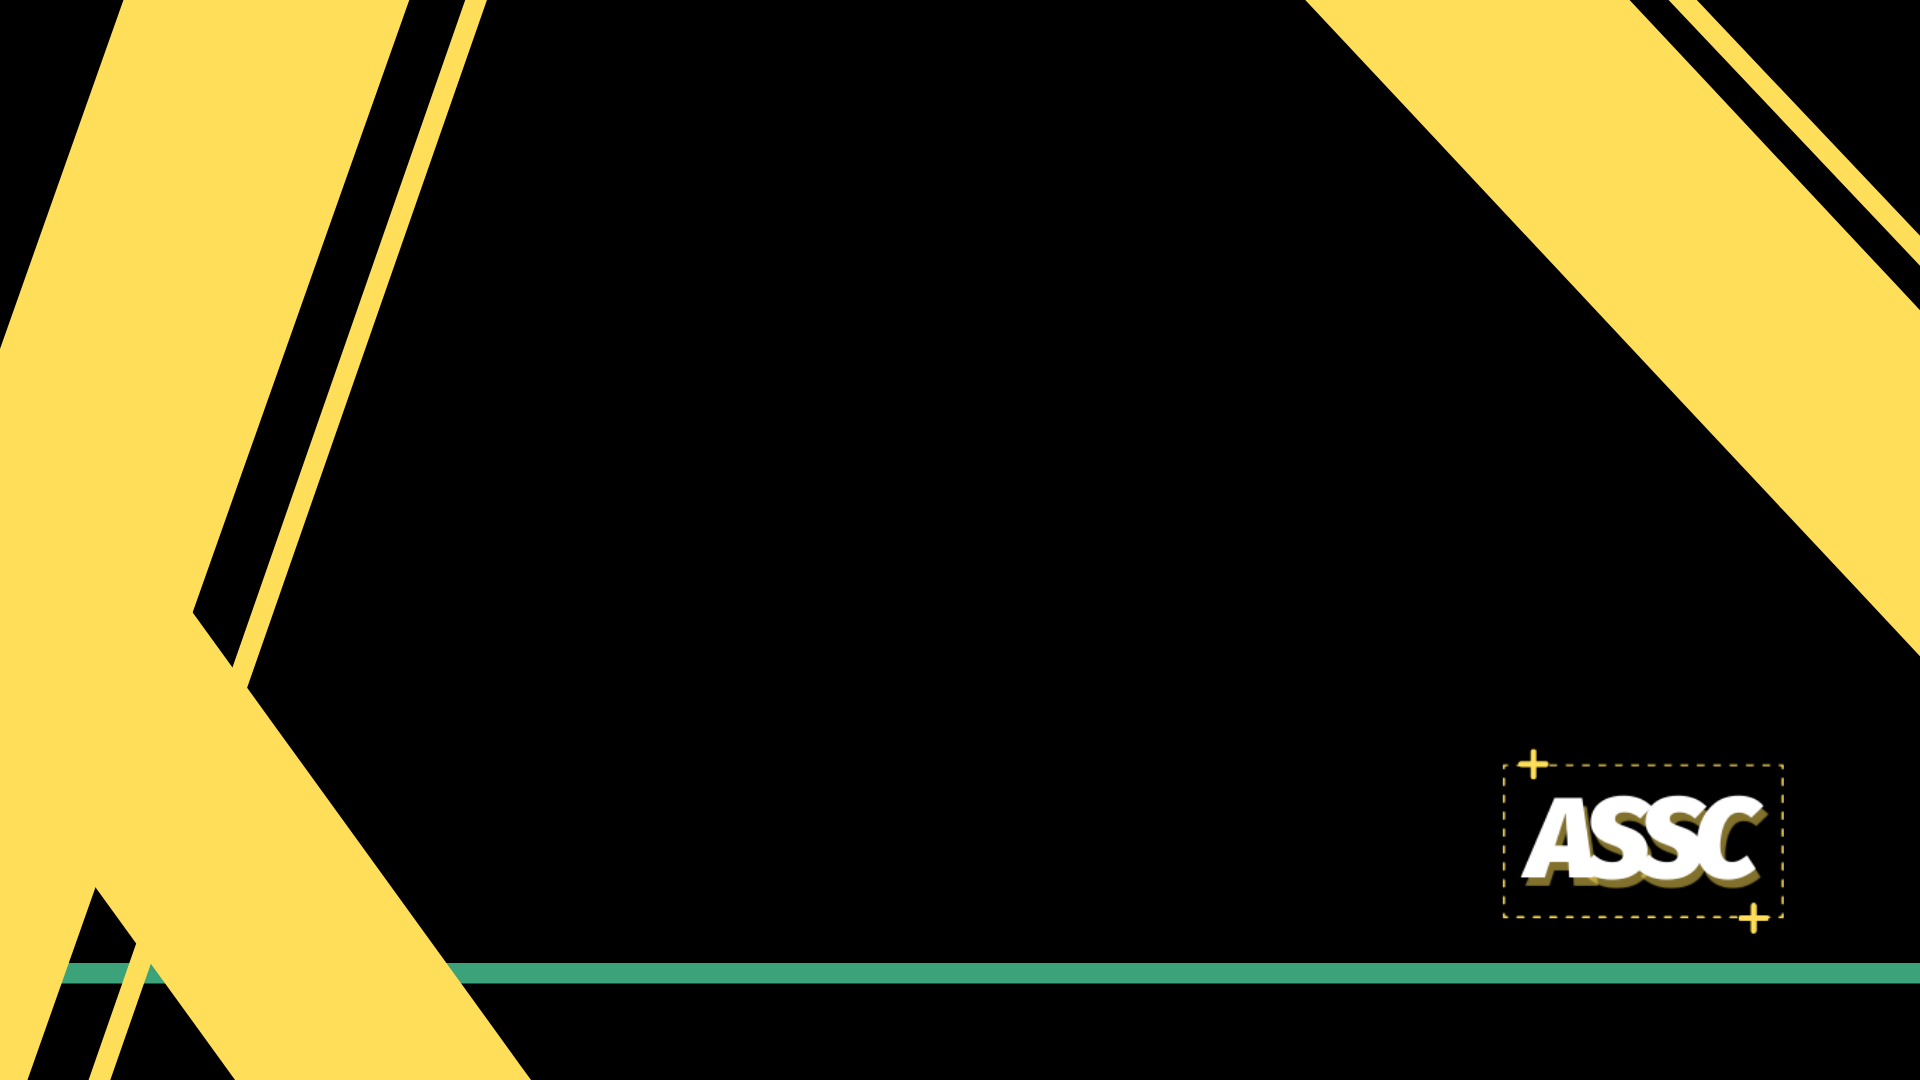
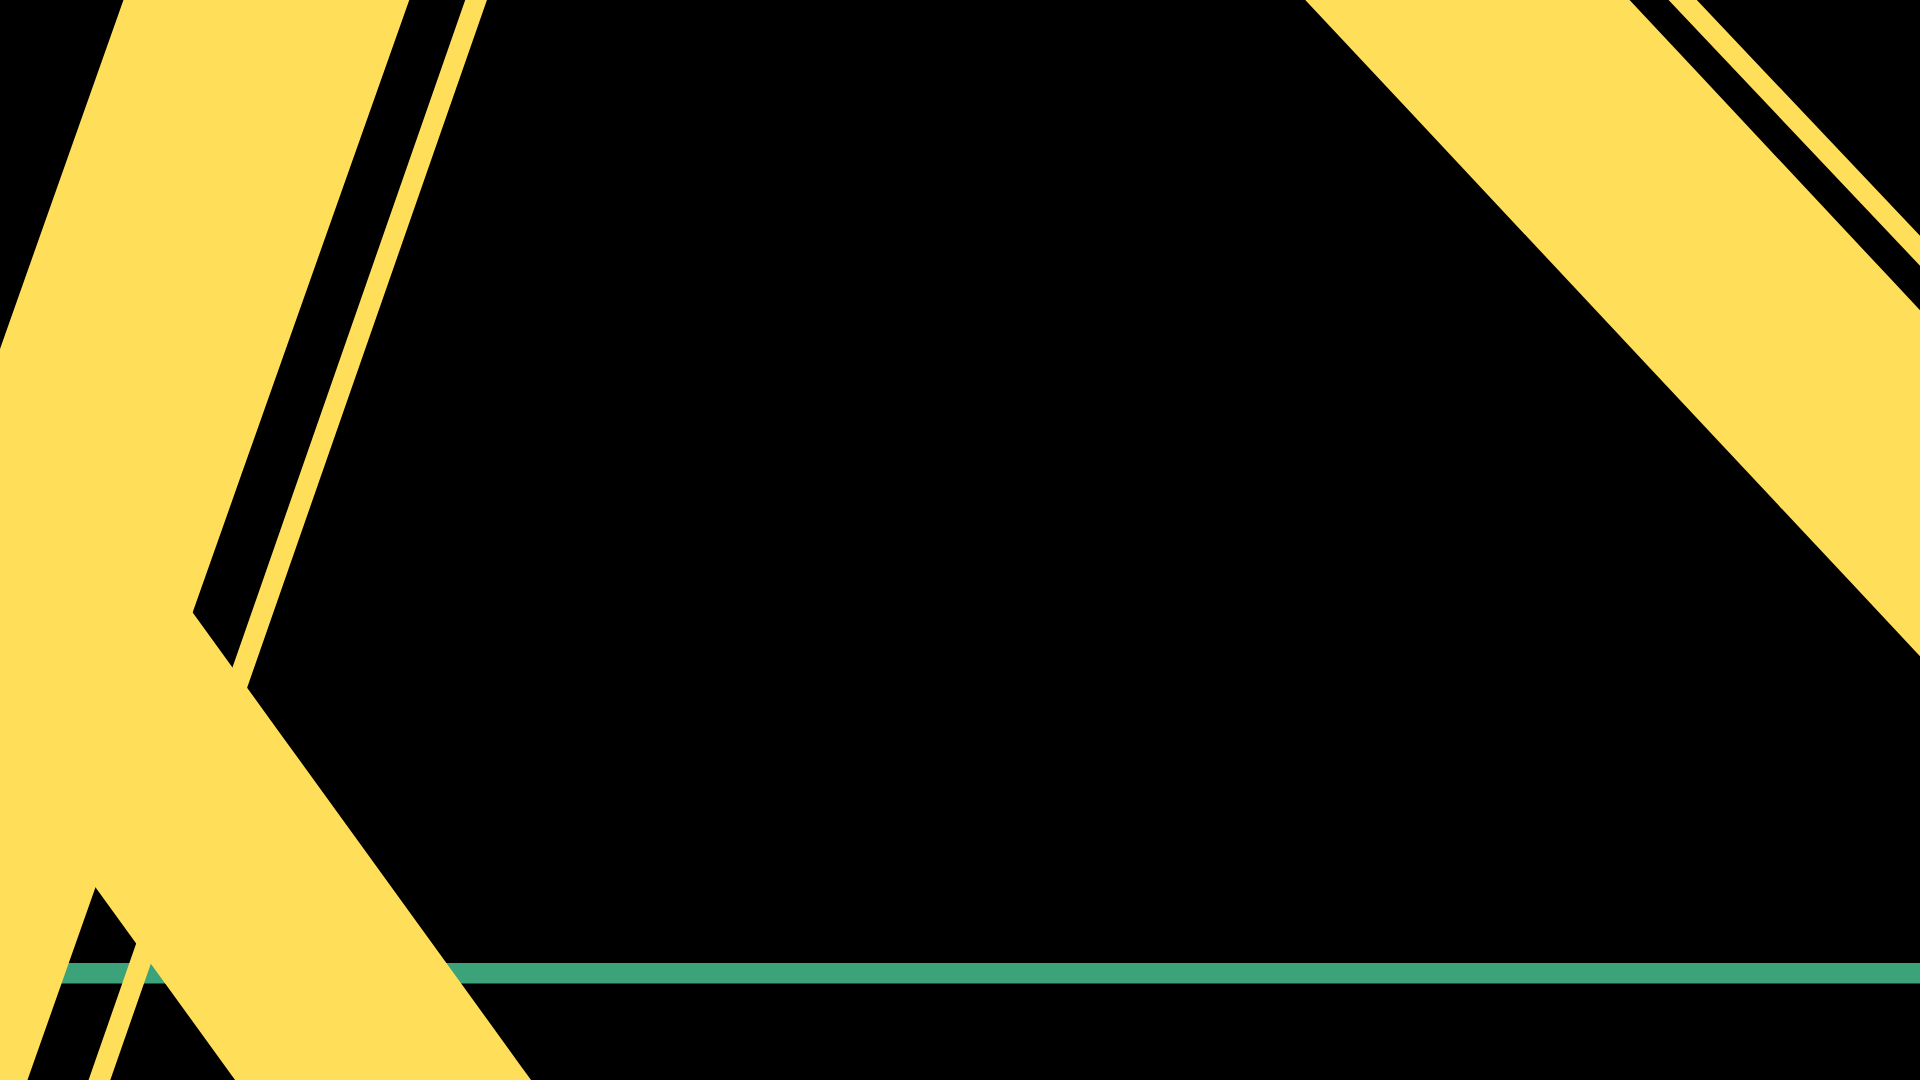
Add files via upload

Changed region(s): [[0.7812, 0.7028, 0.9375, 0.8556]]

diff --git a/index.html b/index.html
@@ -29,7 +29,8 @@
             <div class="text-01">
                 <h1 class="text-01-h1">Инновационная среда </br> социализации</h1>
                 <div class="seperator gradient"></div>
-                <a href="#" class="btn draw-border">Попробовать</a>
+                <p class="ASSC">Anti Social Social Club</p>
+                <a href="https://forms.gle/DcootnQAdS7eo1Ah9" class="btn draw-border">Попробовать</a>
             </div>
         </div>
     </section>

diff --git a/phonecss.css b/phonecss.css
@@ -27,6 +27,16 @@
 
 
 
+@media screen and (max-width:600px){
+  .text-01-h1,.ASSC{
+    font-size: 6.6vw;
+  }
+}
+
+
+
+
+
 
 /* SECTION 1.5 */
 @media screen and (max-width:600px){
@@ -53,12 +63,13 @@
 
 /* SECTION 3 */
 @media screen and (max-width: 600px) {
-    .full-discription1, .full-discription2, .full-discription3{
+  .full-discription1,.full-discription2, .full-discription3{
         font-size: 4vw;
     }
     .pic1, .pic2, .pic3{
         width: 100px;
     }
+    
 }
 
 

diff --git a/style.css b/style.css
@@ -118,7 +118,12 @@ a {
     padding-bottom: 0;
 }
 .seperator{
-    margin: 3vh 0 20vh;
+    margin: 3vh 0 10vh;
+}
+.ASSC{
+    font-size: 1.6vw;
+    margin-bottom: 10vh;
+    text-shadow: 2px 2px 4px rgb(0, 0, 0);
 }
 .button-01{
     width: 20vw;
@@ -248,9 +253,6 @@ a {
     font-size: 1.6vw;
     letter-spacing: 0.1em;
     text-align:center;
-    /*border: 3px solid #c79c00;
-    background-color: rgba(19, 19, 19, 0.945);
-    border-radius: 3px;*/
 }
 
 /* DISC2 */
